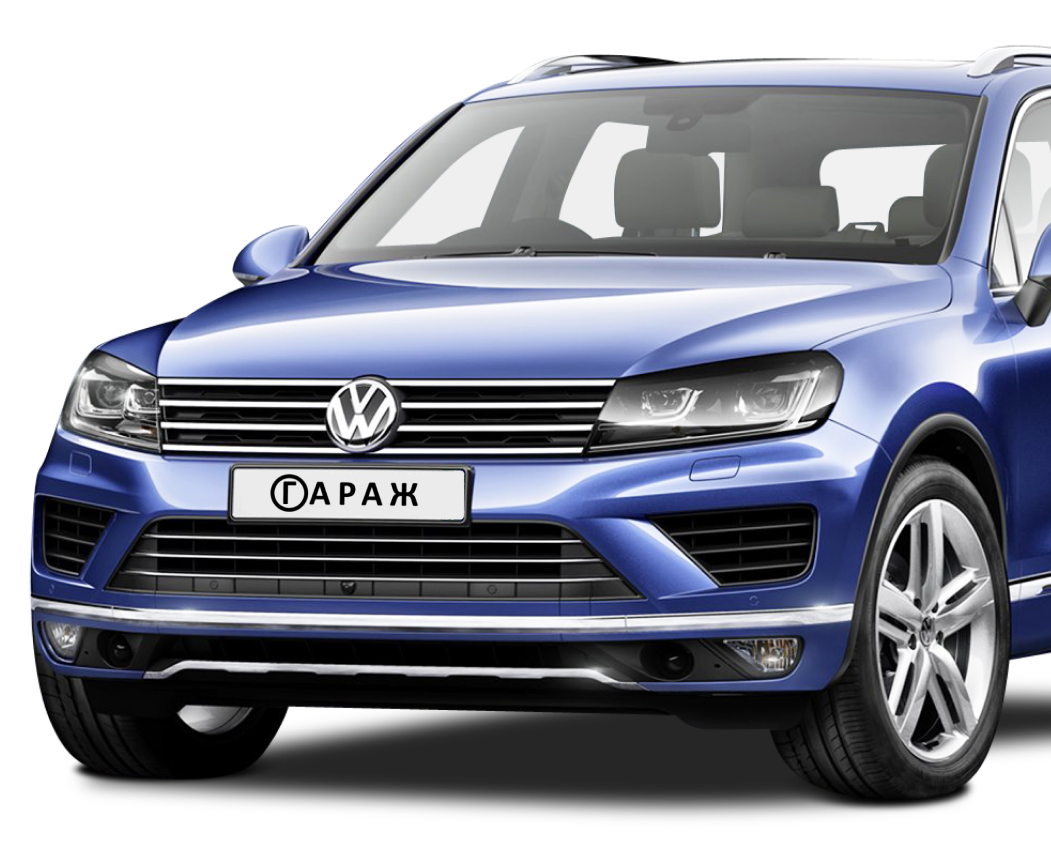
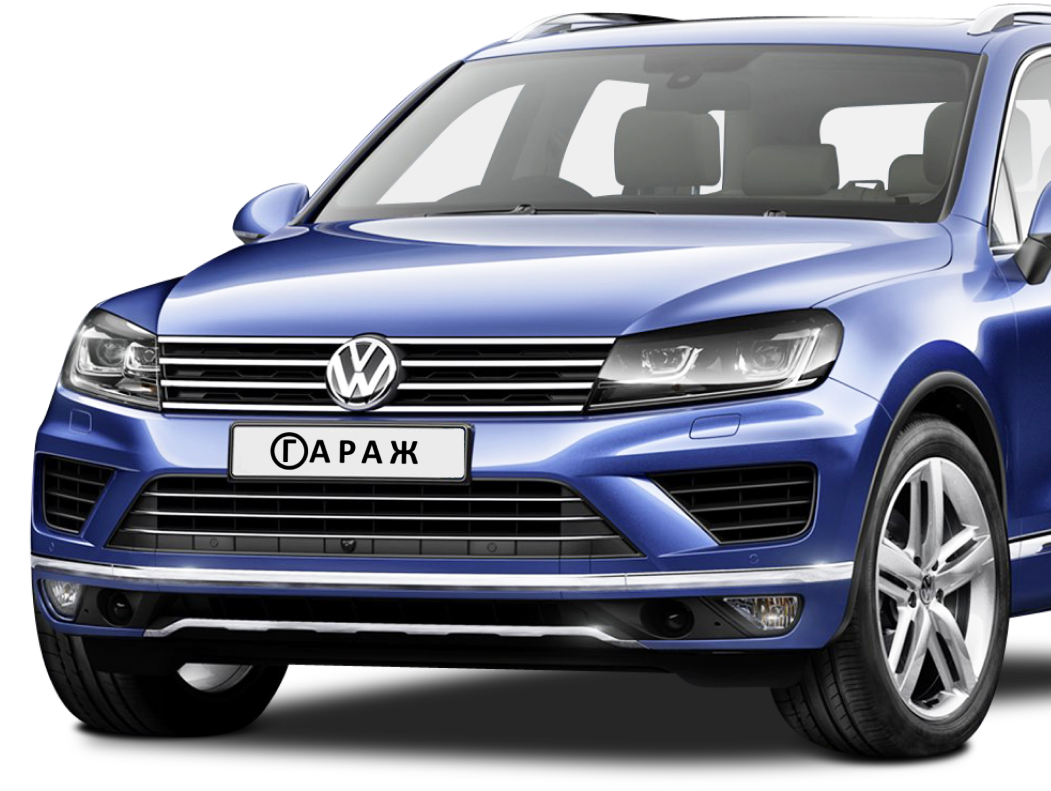
fix margins

diff --git a/css/media.css b/css/media.css
@@ -116,6 +116,9 @@
 		margin-bottom: 20px;
 		box-shadow: none;
 	}
+	.offer__skoda .offer__adress{
+		margin-top: 260px;
+	}
 	.services__tab{
 		width: fit-content;
 		font-size: 17px;
@@ -267,6 +270,9 @@
 	.header__w{
 		display: none;
 	}
+	.offer__skoda .offer__adress{
+		margin-top: 20px;
+	}
 	section{
 		margin-bottom: 60px;
 	}
@@ -304,8 +310,16 @@
 		max-width: 320px;
 	}
 	.offer__i{
-		top: 20px;
 		width: calc(80vw + 80px);
+		top: 20px;
+	}
+	.offer__wolks .offer__i{
+		top:10px;
+		width: calc(80vw + 10px);
+	}
+	.offer__skoda .offer__i{
+		top:10px;
+		width: calc(75vw + 10px);
 	}
 	.offer__w{
 		margin-top: 400px;
@@ -453,7 +467,7 @@
 		margin-top: 5px;
 	}
 	.offer__w{
-		margin-top: 310px;
+		margin-top: 350px;
 		justify-content: space-between;
 	}
 	.offer__btn{
@@ -476,7 +490,7 @@
 		--container-width: 370px;
 	}
 	.offer__w{
-		margin-top: 220px;
+		margin-top: 300px;
 		justify-content: space-between;
 	}
 	.offer__btn{
@@ -503,5 +517,8 @@
 	:root{
 		--swiper-button-marg: 10px;
 		--container-width: 292px;
+	}
+	.offer__w{
+		margin-top: 260px;
 	}
 }

diff --git a/skoda.html b/skoda.html
@@ -36,7 +36,7 @@
 		</div>
 	</header>
 
-	<section class="offer">
+	<section class="offer offer__skoda">
 		<div class="container">
 			<div class="row">
 				<div class="col-12 col-lg-6">

diff --git a/wolksvagen.html b/wolksvagen.html
@@ -36,7 +36,7 @@
 		</div>
 	</header>
 
-	<section class="offer">
+	<section class="offer offer__wolks">
 		<div class="container">
 			<div class="row">
 				<div class="col-12 col-lg-6">

diff --git a/css/wolksvagen.css b/css/wolksvagen.css
@@ -46,7 +46,7 @@
 	position: absolute;
 	top: 40px;
 	right: 0;
-	width: calc(50vw + 100px);
+	width: calc(50vw + 20px);
 }
 .offer__subtitle{
 	text-transform: uppercase;
